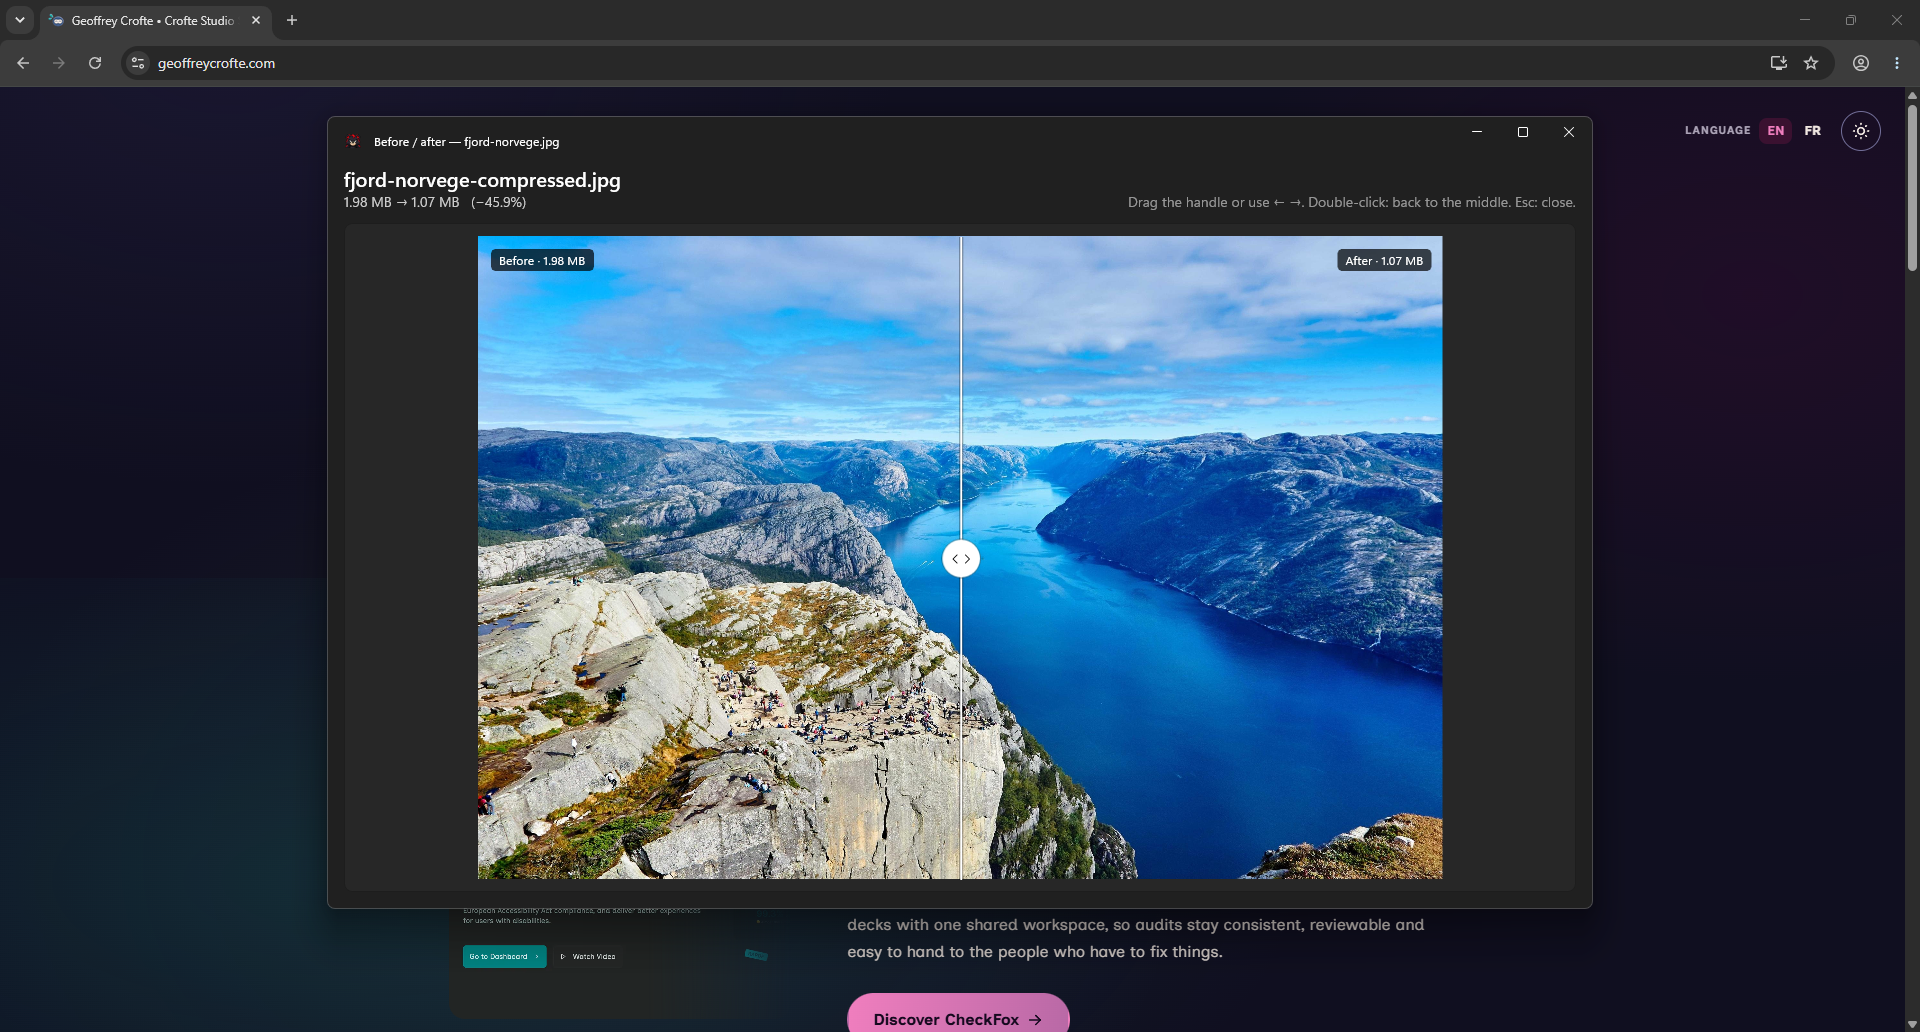
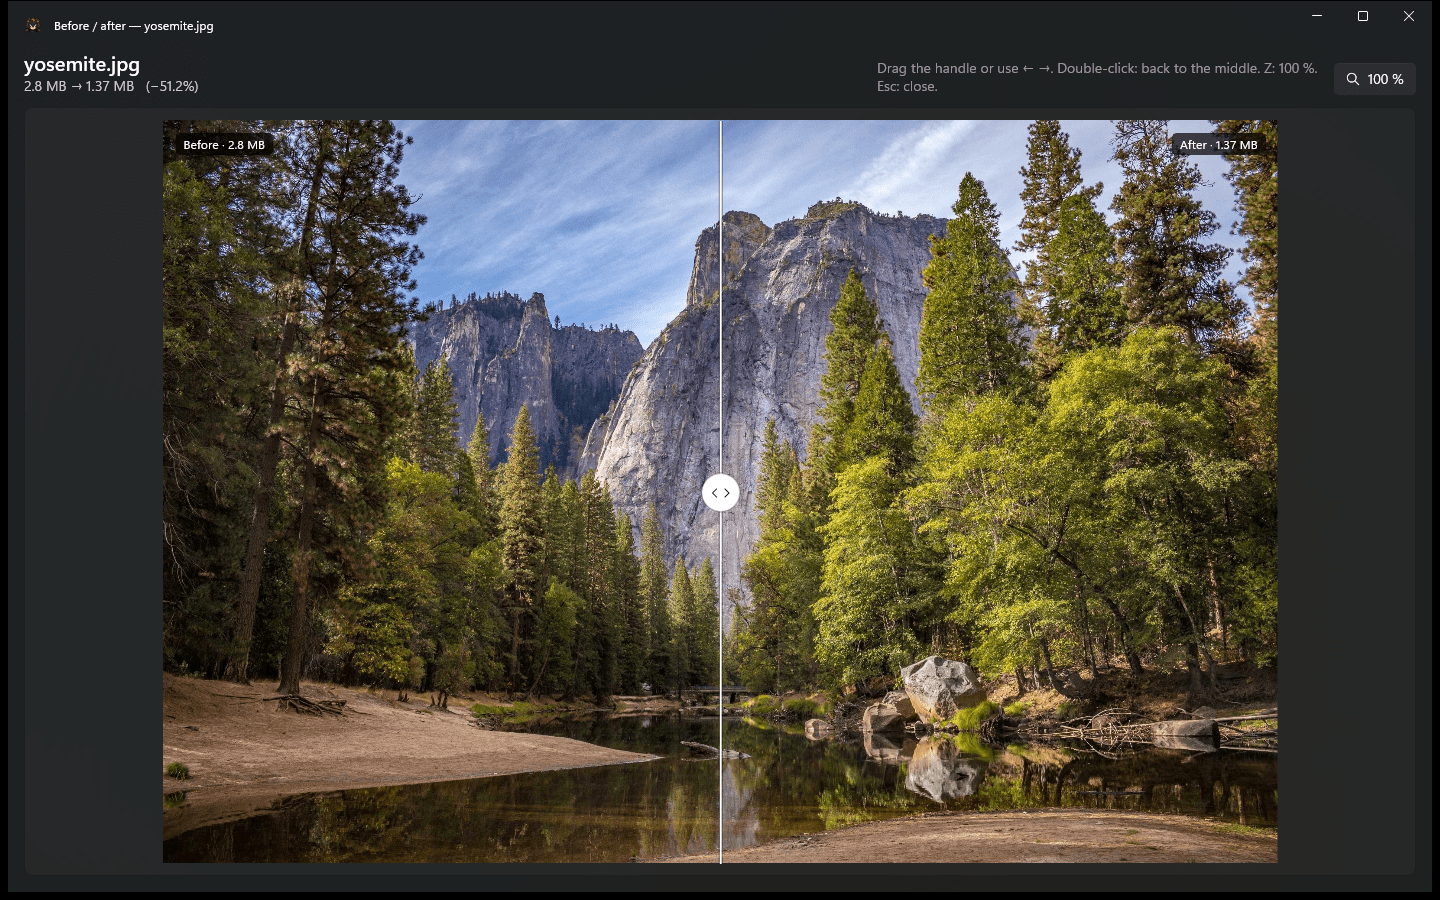
docs(readme): refresh the screenshots in English
Web preset on eight photos, the before/after view fitted and at 100 %, the settings with presets, and the
empty window. Taken at 1440×900 from a neutral folder; photo screenshots reduced with pngquant + oxipng.

diff --git a/README.md b/README.md
@@ -12,7 +12,7 @@ the result is saved next to each file as `name-compressed.ext`, or in a `compres
 
 > Status: early development (v0.4). Images, PDFs and videos work today; the "Planned" column below lists what's coming.
 
-What changed in each version: [CHANGELOG.md](CHANGELOG.md). Using a keyboard or a screen reader:
+What changed in each version: [CHANGELOG.md](CHANGELOG.md) ([en français](CHANGELOG.fr.md)). Using a keyboard or a screen reader:
 [ACCESSIBILITY.md](ACCESSIBILITY.md).
 
 ## Download
@@ -39,11 +39,15 @@ or run on demand, in Settings → About. Pre-releases are only offered to people
 
 ## Screenshots
 
-![Eight photos compressed with lossy mode at quality 85: 12.4 MB saved out of 31.9 MB](docs/screenshots/files.png)
+![Eight photos compressed with the Web preset, about half their size each: 7.24 MB saved out of 14.22 MB](docs/screenshots/files.png)
 
-| Settings, one section per kind of file | Before / after, with a draggable split |
+| Before / after, with a draggable split | The same at 100 %, pixel for pixel |
 |---|---|
-| ![The settings panel open next to the file list](docs/screenshots/settings.png) | ![Before/after comparison of a fjord photo, 1.98 MB down to 1.07 MB](docs/screenshots/before-after.png) |
+| ![Before/after comparison of a Yosemite photo, 2.8 MB down to 1.37 MB](docs/screenshots/before-after.png) | ![The Yosemite comparison at 100 %, centered on the split: the rock and trees look the same on both sides](docs/screenshots/zoom.png) |
+
+| Presets and settings, one section per kind of file | Ready for your files |
+|---|---|
+| ![The settings panel open next to the file list, with the Web preset selected](docs/screenshots/settings.png) | ![The empty window: drop your images, PDFs and videos here, or Add files](docs/screenshots/empty.png) |
 
 <details>
 <summary>Splash screen</summary>
@@ -52,7 +56,7 @@ or run on demand, in Settings → About. Pre-releases are only offered to people
 
 </details>
 
-<sub>Demo photos from [Lorem Picsum](https://picsum.photos) (Unsplash License). Splash screen shown over the default Windows 11 wallpaper.</sub>
+<sub>Demo photos from [Lorem Picsum](https://picsum.photos) (Unsplash License), saved as high-quality JPEGs as a camera would. Splash screen shown over the default Windows 11 wallpaper.</sub>
 
 ## Features
 
@@ -215,8 +219,9 @@ is `SmashIt.Cli.exe`, and `cmd\smashit.cmd` keeps the `smashit` command.
 
 To ship a version:
 
-1. In `CHANGELOG.md`, rename "## Next version" to the version and date (`## v0.3.0 · January 15, 2027`).
-2. Set the same number in `<Version>` in `Directory.Build.props`, and commit both on `main`.
+1. In `CHANGELOG.md`, rename "## Next version" to the version and date (`## v0.3.0 · January 15, 2027`), and
+   add the same section, translated, to `CHANGELOG.fr.md`.
+2. Set the same number in `<Version>` in `Directory.Build.props`, and commit all three on `main`.
 3. Push a tag (`git tag v0.3.0 && git push origin v0.3.0`), or create the release on GitHub with a new tag.
 
 The *Release* workflow tests and builds, then attaches the installer, the zip and `SHA256SUMS.txt`. A tag pushed
@@ -230,6 +235,10 @@ section above the version a person has, read from `CHANGELOG.md` as tagged with 
 work on `main` never shows). A version without a section falls back to the release text. Headings, lists,
 **bold**, `code` and links are rendered. The update banner reaches people as soon as the release is published
 (drafts are never seen).
+
+When the app is in French, each version's notes come from [`CHANGELOG.fr.md`](CHANGELOG.fr.md) instead, with the
+same `## vX.Y.Z` titles; a version not translated yet shows in English. Other languages will follow the same
+pattern (`CHANGELOG.<code>.md`).
 
 ## Command line
 
